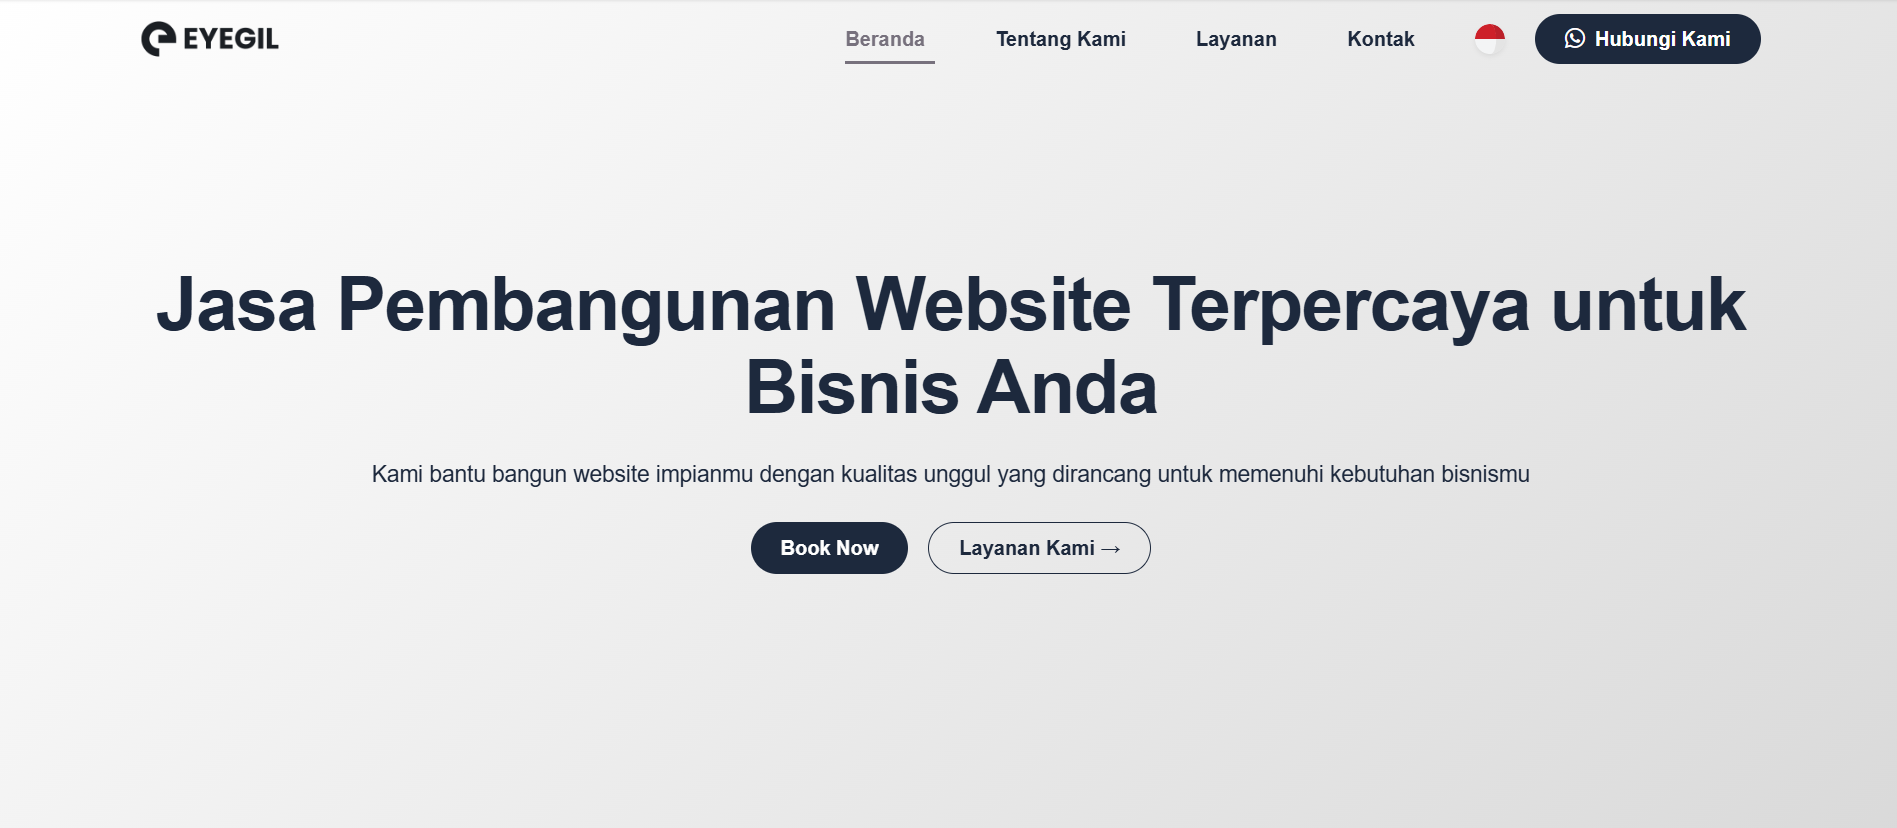
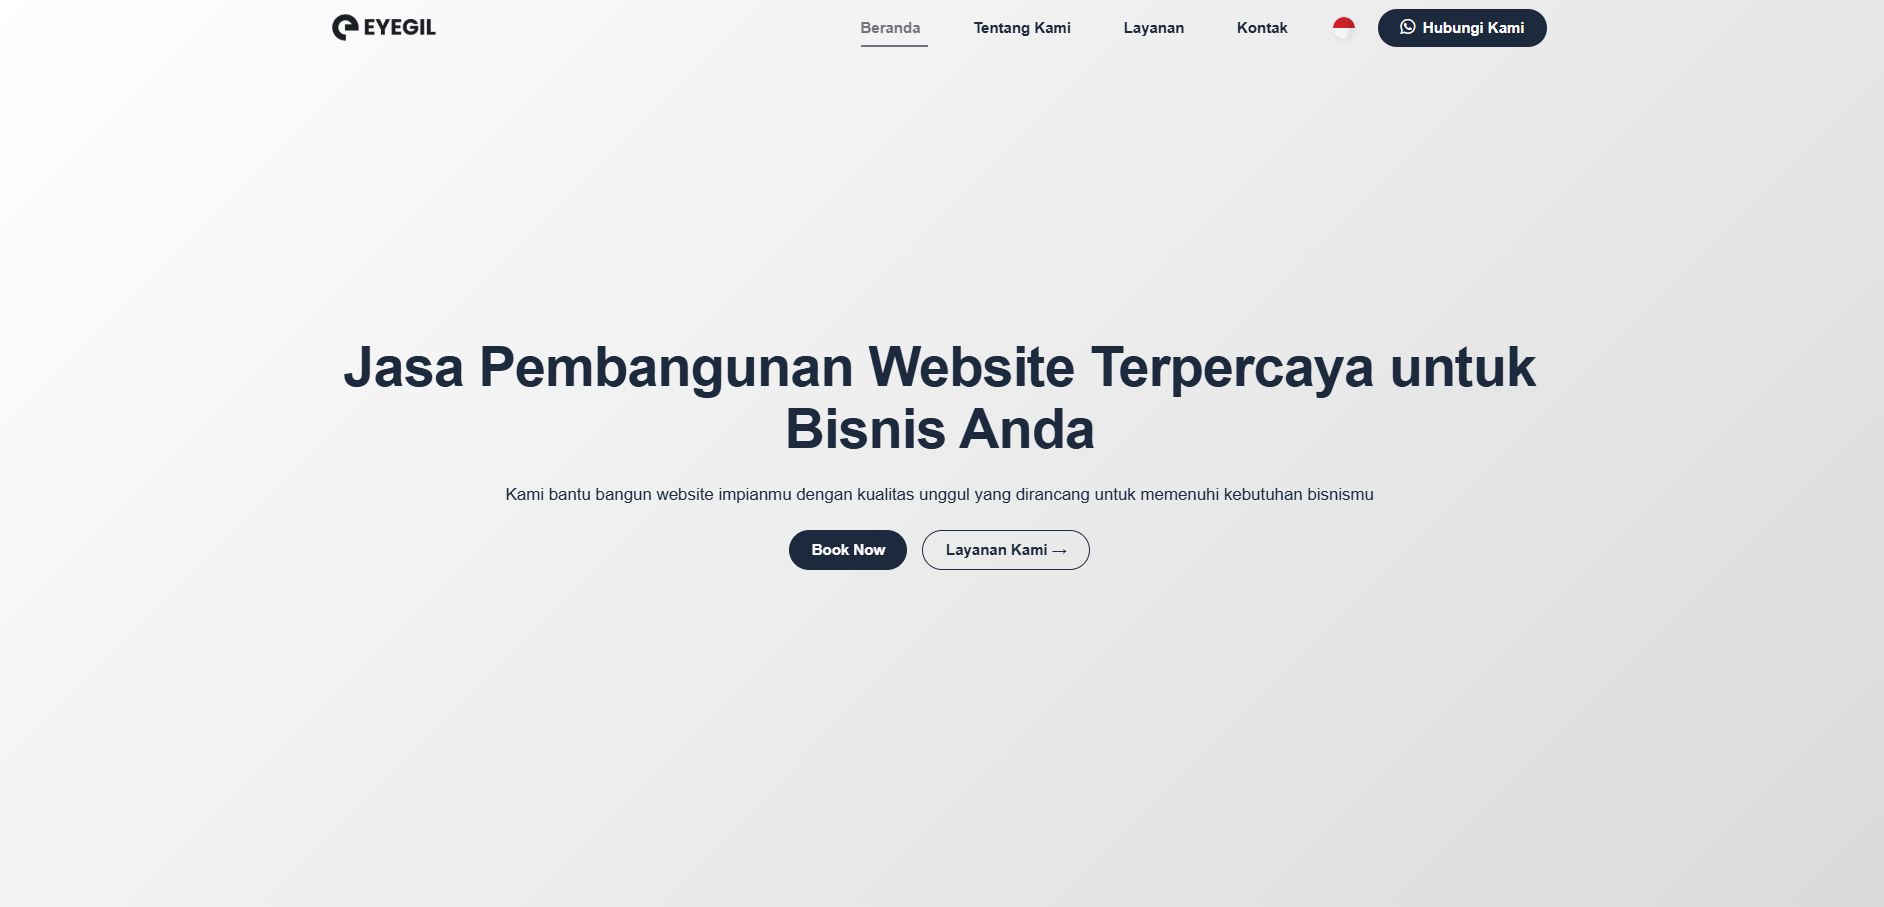
refinement

diff --git a/resources/sass/app.scss b/resources/sass/app.scss
@@ -388,36 +388,39 @@ $outer-circle-size-tablet: $profile-size-tablet + 90px;
     }
 }
 
+// SECTION RESET
+section {
+    margin: 0 !important;
+}
+
 // ADDITIONAL: Adjust section padding
 section:first-of-type {
-    min-height: calc(100vh - 74px) !important; // 74px is the approx navbar height
-    padding-top: 20px;
+    min-height: 100vh !important;
+    display: flex;
+    align-items: center;
+    padding-top: 80px;
     padding-bottom: 20px;
-
-    @media (min-width: 768px) {
-        min-height: calc(100vh - 74px) !important;
-        padding-top: 30px;
-        padding-bottom: 30px;
-    }
+    scroll-margin-top: 0;
 
     @media (min-width: 992px) {
-        min-height: calc(100vh - 74px) !important;
-        padding-top: 40px;
-        padding-bottom: 40px;
+        padding-top: 80px;
+        padding-bottom: 0;
     }
 }
 
-// ABOUT SECTION
-#about {
-    scroll-margin-top: 100px;
-    padding: 20px 0;
+// SECTION SPACING (About, Skills, Projects)
+#about,
+#skills,
+#resources {
+    scroll-margin-top: 85px; // Matches navbar height + buffer
+    padding: 80px 0;
 
     @media (min-width: 768px) {
-        padding: 30px 0;
+        padding: 100px 0;
     }
 
     @media (min-width: 992px) {
-        padding: 40px 0;
+        padding: 120px 0;
     }
 }
 
@@ -436,18 +439,14 @@ section:first-of-type {
     opacity: 0;
     transform: translateX(-50px);
     border-radius: 0px;
-    border: none;
+    border: 2px solid #000; // Semi-bold border
     background: #fff;
-    margin: 0 15px 60px; // Ditambah margin bottom
+    margin: 0 15px 60px;
+    overflow: hidden;
+    box-shadow: 0 10px 40px rgba(0, 0, 0, 0.08); // Thinner, more subtle shadow
 
     &::before {
-        content: "";
-        position: absolute;
-        inset: 0;
-        border: 2px solid rgba(0, 0, 0, 0.2);
-        pointer-events: none;
-        z-index: 3;
-        box-sizing: border-box;
+        display: none;
     }
 
     transition: transform 0.8s cubic-bezier(0.22, 1, 0.36, 1),
@@ -464,8 +463,8 @@ section:first-of-type {
         transform: translateX(0);
 
         &:hover {
-            transform: translateY(-4px);
-            box-shadow: 0 12px 30px rgba(0, 0, 0, 0.12);
+            transform: translateY(-5px);
+            box-shadow: 0 20px 50px rgba(0, 0, 0, 0.12);
         }
 
         .animate-text,
@@ -917,12 +916,13 @@ section {
         transform: translateY(-3px);
     }
 }
+
 // SKILLS V2 REDESIGN
 .card-skill-v2 {
     border: 2px solid #000 !important;
     background: transparent;
     transition: transform 0.3s ease, box-shadow 0.3s ease;
-    
+
     &:hover {
         transform: translateY(-5px);
         box-shadow: 10px 10px 0px #000;
@@ -952,7 +952,7 @@ section {
     margin-bottom: 8px;
     display: flex;
     align-items: center;
-    
+
     i {
         font-size: 1.4rem;
         color: #000;
@@ -974,8 +974,8 @@ section {
     font-size: 0.75rem !important;
     line-height: 1.4;
 }
+
 .extra-small-badge {
     font-size: 0.65rem !important;
     padding: 3px 10px !important;
 }
-

diff --git a/resources/js/app.js b/resources/js/app.js
@@ -71,7 +71,7 @@ document.addEventListener("DOMContentLoaded", () => {
         if (el.classList.contains('image-sweep')) {
             keyframes = [
                 { clipPath: 'inset(0 100% 0 0)', opacity: 0, visibility: 'visible' },
-                { clipPath: 'inset(0 0% 0 0)',   opacity: 1, visibility: 'visible' }
+                { clipPath: 'inset(0 0% 0 0)', opacity: 1, visibility: 'visible' }
             ];
             options.duration = 1000;
             options.easing = 'cubic-bezier(0.77, 0, 0.175, 1)';
@@ -80,7 +80,7 @@ document.addEventListener("DOMContentLoaded", () => {
         else {
             keyframes = [
                 { opacity: 0, transform: 'translateY(30px)', visibility: 'hidden' },
-                { opacity: 1, transform: 'translateY(0)',    visibility: 'visible' }
+                { opacity: 1, transform: 'translateY(0)', visibility: 'visible' }
             ];
         }
 

diff --git a/resources/views/pages/home.blade.php b/resources/views/pages/home.blade.php
@@ -4,7 +4,7 @@
 @section('content')
 
 
-    <section class="bg-white text-black reveal-section ">
+    <section id="home" class="bg-white text-black reveal-section">
         <div class="container">
             <div class="row align-items-center justify-content-center">
 
@@ -16,7 +16,8 @@
                         <span>Yogyakarta, Indonesia</span>
                     </div>
                     <h1 class="display-4 fw-bold animate-on-scroll">Zenifen Caesarof Agusti</h1>
-                    <p class="lead opacity-75 mb-0 animate-on-scroll">Web Developer & Front End Engineer & Finance Analyst</p>
+                    <p class="lead opacity-75 mb-0 animate-on-scroll">Web Developer & Front End Engineer & Finance Analyst
+                    </p>
                     <p class="text-muted small mb-4 animate-on-scroll">Crafting high-quality digital solutions with
                         precision and code.</p>
 
@@ -128,7 +129,7 @@
 
 
 
-    <section id="skills" class="py-3 bg-white reveal-section text-dark d-flex align-items-center"
+    <section id="skills" class="py-5 bg-white reveal-section text-dark d-flex align-items-center"
         style="scroll-margin-top: 90px; min-height: 85vh;">
         <div class="container py-2">
 
@@ -143,11 +144,11 @@
                         <div class="skill-icon-v2 mb-3">
                             <i class="bi bi-code-slash fs-3"></i>
                         </div>
-                        <h4 class="fw-bold mb-2 ls-tight">PROGRAMMING</h4>
-                        <p class="text-secondary small mb-3">Building clean and scalable web applications.</p>
+                        <h4 class="fw-bold mb-2 ls-tight">PEMROGRAMAN</h4>
+                        <p class="text-secondary small mb-3">Membangun aplikasi web yang bersih dan skalabel.</p>
 
                         <div class="mb-3">
-                            <h6 class="text-uppercase fw-bold xsmall-text mb-2">Tech Stack</h6>
+                            <h6 class="text-uppercase fw-bold xsmall-text mb-2">Teknologi</h6>
                             <div class="d-flex flex-wrap gap-2">
                                 <span class="badge-tech">HTML</span>
                                 <span class="badge-tech">CSS</span>
@@ -158,12 +159,12 @@
                         </div>
 
                         <div>
-                            <h6 class="text-uppercase fw-bold xsmall-text mb-2">Highlights</h6>
+                            <h6 class="text-uppercase fw-bold xsmall-text mb-2">Poin Utama</h6>
                             <ul class="list-unstyled mb-0">
-                                <li class="highlight-item small"><i class="bi bi-arrow-right-short me-2"></i>problem solving
+                                <li class="highlight-item small"><i class="bi bi-arrow-right-short me-2"></i>pemecahan masalah
                                 </li>
-                                <li class="highlight-item small"><i class="bi bi-arrow-right-short me-2"></i>clean code</li>
-                                <li class="highlight-item small"><i class="bi bi-arrow-right-short me-2"></i>UI/UX awareness
+                                <li class="highlight-item small"><i class="bi bi-arrow-right-short me-2"></i>kode bersih</li>
+                                <li class="highlight-item small"><i class="bi bi-arrow-right-short me-2"></i>pemahaman UI/UX
                                 </li>
                             </ul>
                         </div>
@@ -176,20 +177,18 @@
                         <div class="skill-icon-v2 mb-3">
                             <i class="bi bi-graph-up-arrow fs-3"></i>
                         </div>
-                        <h4 class="fw-bold mb-2 ls-tight">FOREX ANALYST</h4>
-                        <p class="text-secondary small mb-3">Analyzing market trends and identifying high-probability
-                            trades.</p>
+                        <h4 class="fw-bold mb-2 ls-tight">ANALIS FOREX</h4>
+                        <p class="text-secondary small mb-3">Menganalisis tren pasar dan mengidentifikasi peluang trading probabilitas tinggi.</p>
 
                         <div class="mb-0">
-                            <h6 class="text-uppercase fw-bold xsmall-text mb-2">Highlights</h6>
+                            <h6 class="text-uppercase fw-bold xsmall-text mb-2">Poin Utama</h6>
                             <ul class="list-unstyled mb-0">
-                                <li class="highlight-item small"><i class="bi bi-arrow-right-short me-2"></i>market
-                                    structure</li>
+                                <li class="highlight-item small"><i class="bi bi-arrow-right-short me-2"></i>struktur pasar</li>
                                 <li class="highlight-item small"><i class="bi bi-arrow-right-short me-2"></i>price action
                                 </li>
                                 <li class="highlight-item small"><i class="bi bi-arrow-right-short me-2"></i>entry timing
                                 </li>
-                                <li class="highlight-item small"><i class="bi bi-arrow-right-short me-2"></i>risk management
+                                <li class="highlight-item small"><i class="bi bi-arrow-right-short me-2"></i>manajemen risiko
                                 </li>
                             </ul>
                         </div>
@@ -200,7 +199,7 @@
     </section>
 
 
-    <section id="resources" class="py-3 bg-white reveal-section d-flex align-items-center"
+    <section id="resources" class="py-5 bg-white reveal-section d-flex align-items-center"
         style="scroll-margin-top: 90px; min-height: 85vh;">
         <div class="container">
 
@@ -223,13 +222,12 @@
                             </div>
 
                             <div class="card-body p-3">
-                                <div class="project-category-text">UI/UX • DIGITAL BUSINESS</div>
+                                <div class="project-category-text">UI/UX • DIGITAL BUSINESS • Enterprise Solutions Provider • Custom Software Development Services</div>
                                 <div class="project-divider"></div>
 
                                 <h6 class="fw-bold mb-1">Company Website Development – Eyegil.com</h6>
                                 <p class="text-muted extra-small-text mb-2">
-                                    Berperan sebagai developer Eyegil.co dalam pengembangan berbagai proyek website
-                                    strategis.
+                                  Platform yang membantu perusahaan meningkatkan efisiensi melalui solusi teknologi dan sistem digital yang terintegrasi.
                                 </p>
                                 <div class="d-flex justify-content-between align-items-center mt-auto pt-2">
                                     <a href="https://eyegil.com"
@@ -246,19 +244,23 @@
                     <div class="stack-animated">
                         <div class="card-stack-bg-3 rounded-0"></div>
                         <div class="card-stack-bg-2 rounded-0"></div>
-                        <div class="card card-elegant card-stack-main border-dark rounded-0 shadow-none h-100 overflow-hidden">
-                            
+                        <div
+                            class="card card-elegant card-stack-main border-dark rounded-0 shadow-none h-100 overflow-hidden">
+
                             <div class="px-3 pt-3">
-                                <img src="{{ asset('img/UMKM-tumbuh.porto.png') }}" class="img-fluid border border-dark border-opacity-10" style="aspect-ratio: 16/10; object-fit: cover; width: 100%;" alt="Project 2">
+                                <img src="{{ asset('img/UMKM-tumbuh.porto.png') }}"
+                                    class="img-fluid border border-dark border-opacity-10"
+                                    style="aspect-ratio: 16/10; object-fit: cover; width: 100%;" alt="Project 2">
                             </div>
 
                             <div class="card-body p-3">
-                                <div class="project-category-text">UI/UX • DEVELOPMENT</div>
+                                <div class="project-category-text">UI/UX • DEVELOPMENT • Personal Growth Platform • AI Growth Partner</div>
                                 <div class="project-divider"></div>
 
                                 <h6 class="fw-bold mb-1">UMKM Business Management – TUMBUH</h6>
                                 <p class="text-muted extra-small-text mb-2">
                                     Platform AI untuk membantu UMKM mengelola bisnis, penjualan, dan analisis data.
+                                </p>
                                 <div class="d-flex justify-content-between align-items-center mt-auto pt-2">
                                     <a href="https://tumbuh-app-web.vercel.app"
                                         class="text-decoration-none fw-bold link-primary extra-small-text">Lihat Project</a>
@@ -273,23 +275,27 @@
                     <div class="stack-animated">
                         <div class="card-stack-bg-3 rounded-0"></div>
                         <div class="card-stack-bg-2 rounded-0"></div>
-                        <div class="card card-elegant card-stack-main border-dark rounded-0 shadow-none h-100 overflow-hidden">
-                            
+                        <div
+                            class="card card-elegant card-stack-main border-dark rounded-0 shadow-none h-100 overflow-hidden">
+
                             <div class="px-3 pt-3">
-                                <img src="{{ asset('img/Amazain.porto.png') }}" class="img-fluid border border-dark border-opacity-10" style="aspect-ratio: 16/10; object-fit: cover; width: 100%;" alt="Project 3">
+                                <img src="{{ asset('img/Amazaincompro.porto.png') }}"
+                                    class="img-fluid border border-dark border-opacity-10"
+                                    style="aspect-ratio: 16/10; object-fit: cover; width: 100%;" alt="Project 3">
                             </div>
 
                             <div class="card-body p-3">
-                                <div class="project-category-text">UI/UX • DEVELOPMENT</div>
+                                <div class="project-category-text">UI/UX • DEVELOPMENT • Training Consultant • Human Capital Development </div>
                                 <div class="project-divider"></div>
 
                                 <h6 class="fw-bold mb-1">Training Platform – AMAZAIN</h6>
                                 <p class="text-muted extra-small-text mb-2">
-                                    Platform untuk meningkatkan skill digital marketing dan analisis data.
+                                    Platform untuk meningkatkan skill digital marketing dan mengkonsultasikan strategi bisnis.
                                 </p>
                                 <div class="d-flex justify-content-between align-items-center mt-auto pt-2">
-                                    <a href="https://amazaintraining.com/" class="text-decoration-none fw-bold link-primary extra-small-text">Lihat Project</a>
-                                    <span class="text-secondary extra-small-text">2024</span>
+                                    <a href="https://amazaintraining.com/"
+                                        class="text-decoration-none fw-bold link-primary extra-small-text">Lihat Project</a>
+                                    <span class="text-secondary extra-small-text">2026</span>
                                 </div>
                             </div>
                         </div>

diff --git a/resources/views/layout/navbar.blade.php b/resources/views/layout/navbar.blade.php
@@ -1,4 +1,4 @@
-<nav class="navbar navbar-expand-lg navbar-light custom-navbar sticky-top">
+<nav class="navbar navbar-expand-lg navbar-light custom-navbar fixed-top">
     <div class="container">
         <a class="navbar-brand brand-logo" href="#home">
             Zenifen<span class="dot">.</span>
@@ -18,6 +18,9 @@
 
         <div class="collapse navbar-collapse" id="mainNavbar">
             <ul class="navbar-nav mx-auto nav-links-group">
+                <li class="nav-item">
+                    <a class="nav-link" href="#home">Beranda</a>
+                </li>
                 <li class="nav-item">
                     <a class="nav-link" href="#about">Tentang</a>
                 </li>